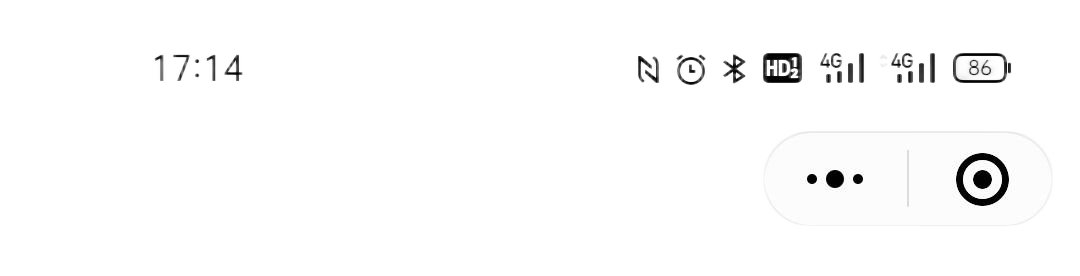
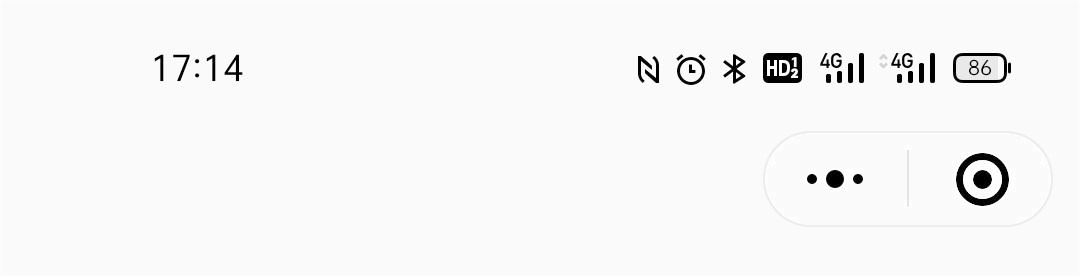
3.5

Changed region(s): [[0.5806, 0.1739, 0.9472, 0.3188], [0.1222, 0.1739, 0.2444, 0.2899]]

diff --git a/index.html b/index.html
@@ -93,11 +93,8 @@
 
 		.top {
 			top: 0px;
-			display: flex;
-			align-items: baseline;
-			-webkit-filter: opacity(90%);
-			filter: opacity(90%);
 		}
+
 
 		.statusBar {
 			width: 100%;
@@ -123,7 +120,8 @@
 		<div class="content">
 			<div class="nav top">
 				<span id="OStime"></span>
-				<img class="statusBar" src="top.png" style="width: 100%;">
+				<img class="statusBar" src="top1.png" style="width: 100%;">
+				<img class="statusBar" src="top2.png" style="opacity:75%;">
 			</div>
 			<div>
 				<img class="beijing" src="20220824.png" style="width: 100%;">
